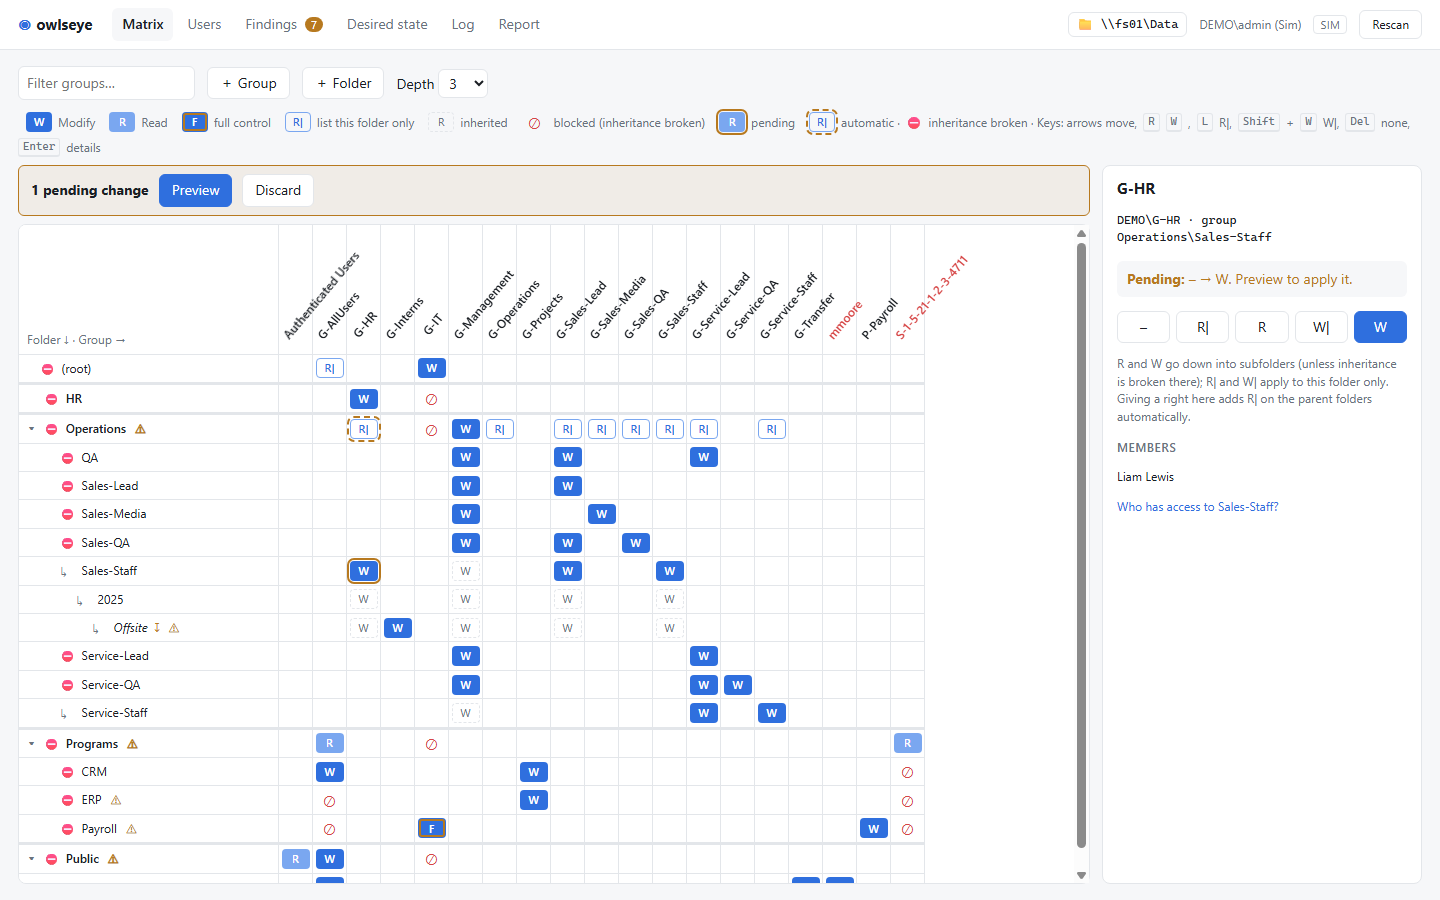
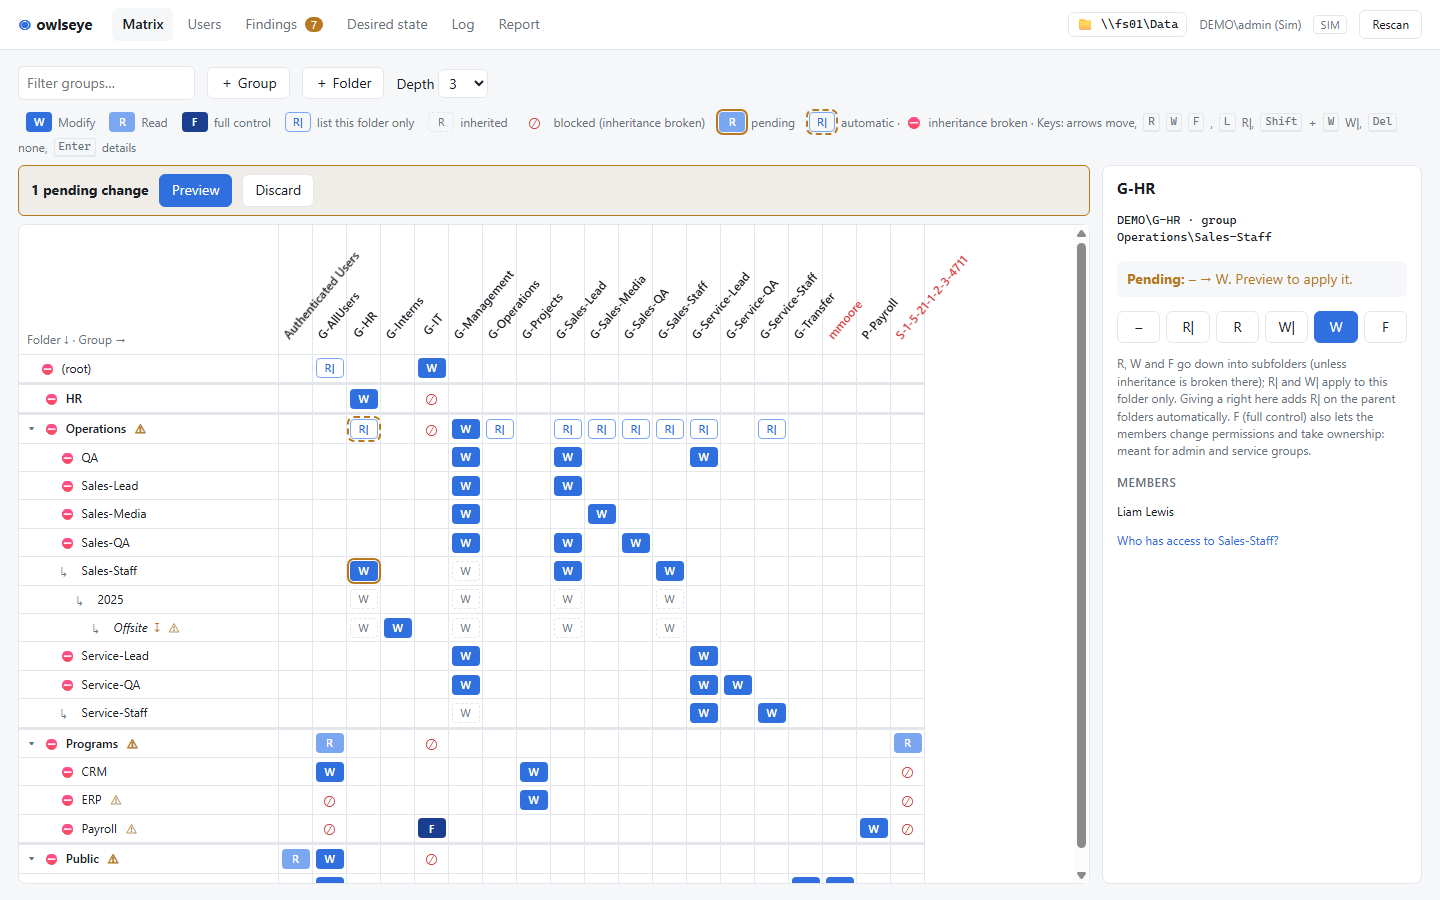
rights: full control (F) can be set
F was shown since the last change but could not be chosen. It is now a fifth cell value: one full
control entry on this folder, subfolders and files (0x1F01FF), ranked above W, inherited like W.

- set it in the cell panel or with the F key; it is not part of the R -> W click cycle
- full control for a visible group is a low finding (members can change permissions); the preview
  says so when F is granted
- F -> W is now a visible change in the preview instead of a hidden loss
- special masks are described as the base right plus what is added, e.g. "Modify + change permissions"
- README, user stories and legends; screenshots regenerated

diff --git a/src/Owlseye.App/wwwroot/app.css b/src/Owlseye.App/wwwroot/app.css
@@ -1,14 +1,14 @@
 /* owlseye — compact, light + dark (style follows birdseye) */
 :root {
   --bg: #f6f7f9; --panel: #fff; --ink: #1b1f24; --muted: #6a737d; --line: #e3e6ea;
-  --accent: #2f6fde; --r: #7aa7f0; --m: #2f6fde; --pending: #b7791f; --warn: #b7791f; --bad: #d64545; --ok: #1f9d55;
+  --accent: #2f6fde; --r: #7aa7f0; --m: #2f6fde; --f: #1b3f8f; --pending: #b7791f; --warn: #b7791f; --bad: #d64545; --ok: #1f9d55;
   --hl: rgba(47, 111, 222, .08);
   --font: ui-sans-serif, system-ui, -apple-system, "Segoe UI", Roboto, sans-serif;
   --mono: ui-monospace, "Cascadia Mono", Consolas, monospace;
 }
 @media (prefers-color-scheme: dark) {
   :root { --bg: #0f1216; --panel: #171b21; --ink: #e6e9ee; --muted: #8b949e; --line: #2a3038;
-          --accent: #5b8ff0; --r: #3d64a8; --m: #5b8ff0; --hl: rgba(91, 143, 240, .12); }
+          --accent: #5b8ff0; --r: #3d64a8; --m: #5b8ff0; --f: #8fb3f7; --hl: rgba(91, 143, 240, .12); }
 }
 * { box-sizing: border-box; }
 html, body { margin: 0; background: var(--bg); color: var(--ink); font: 14px/1.45 var(--font); }
@@ -120,6 +120,7 @@ table.matrix td button.c:focus-visible { outline: 2px solid var(--accent); outli
 .c.empty:hover::after { content: "+"; color: var(--muted); }
 .c.R { background: var(--r); color: #fff; }
 .c.W { background: var(--m); color: #fff; }
+.c.F { background: var(--f); color: #fff; }
 .c.RL, .c.WL { background: none; border: 1px solid var(--r); color: var(--accent); }
 .c.WL { border-color: var(--m); }
 .c.odd { box-shadow: inset 0 0 0 2px var(--warn); }

diff --git a/src/Owlseye.App/wwwroot/matrix.js b/src/Owlseye.App/wwwroot/matrix.js
@@ -4,7 +4,7 @@
 window.owlseye = (function () {
   'use strict';
 
-  const RIGHT_KEYS = { r: 'R', w: 'W', m: 'W', l: 'R|', '|': 'R|', W: 'W|', Delete: '', Backspace: '', '0': '', '-': '' };
+  const RIGHT_KEYS = { r: 'R', w: 'W', m: 'W', f: 'F', l: 'R|', '|': 'R|', W: 'W|', Delete: '', Backspace: '', '0': '', '-': '' };
   let dotnet = null;
   let focusKey = null;
 

diff --git a/src/Owlseye.Core/Ui/Views.cs b/src/Owlseye.Core/Ui/Views.cs
@@ -32,6 +32,7 @@ public static class Labels
         "R" => "R Read",
         "W|" => M.Write == M.Modify ? "W| Modify (this folder only)" : "W| Write, no delete (this folder only)",
         "W" => M.Write == M.Modify ? "W Modify" : "W Write, no delete",
+        "F" => "F Full control",
         _ => v,
     };
 
@@ -41,19 +42,33 @@ public static class Labels
     public static string Describe(IEnumerable<Ace> aces) =>
         string.Join("; ", aces.Select(a => $"{(a.Allow ? "" : "Deny: ")}{RightsName(a.Mask)} ({Scope(a.Flags)})"));
 
-    static string RightsName(uint mask) => mask switch
+    static string RightsName(uint mask)
     {
-        M.Full => "Full control",
-        M.Modify => "Modify",
-        M.WriteNoDelete => "Read, execute and write, no delete",
-        M.Read => "Read and execute",
-        0x120089 => "Read",
-        0x100116 => "Write",
-        0x10000000 => "Full control (generic)",
-        0xE0010000 => "Modify (generic)",
-        0xA0000000 => "Read and execute (generic)",
-        _ => $"special rights 0x{mask:X}",
-    };
+        switch (mask)
+        {
+            case M.Full: return "Full control";
+            case 0x10000000: return "Full control (generic)";
+            case 0xE0010000: return "Modify (generic)";
+            case 0xA0000000: return "Read and execute (generic)";
+            case 0x120089: return "Read";
+            case 0x100116: return "Write";
+        }
+        // the largest standard right it contains, plus what goes beyond it
+        var (name, @base) = (mask & M.Modify) == M.Modify ? ("Modify", M.Modify)
+            : (mask & M.WriteNoDelete) == M.WriteNoDelete ? ("Read, execute and write, no delete", M.WriteNoDelete)
+            : (mask & M.Read) == M.Read ? ("Read and execute", M.Read)
+            : ("", 0u);
+        if (@base == 0) return $"special rights 0x{mask:X}";
+        var extra = mask & ~@base;
+        var parts = new List<string>();
+        if ((extra & M.Delete) != 0) parts.Add("delete");
+        if ((extra & M.DeleteChild) != 0) parts.Add("delete subfolders and files");
+        if ((extra & M.WriteDac) != 0) parts.Add("change permissions");
+        if ((extra & M.WriteOwner) != 0) parts.Add("take ownership");
+        var rest = extra & ~(M.Delete | M.DeleteChild | M.WriteDac | M.WriteOwner);
+        if (rest != 0) parts.Add($"0x{rest:X}");
+        return parts.Count == 0 ? name : $"{name} + {string.Join(", ", parts)}";
+    }
 
     static string Scope(int flags)
     {
@@ -95,7 +110,7 @@ public sealed record CellInfo(string? Value, string Kind, string Tip, string? So
         {
             "pending" => ((v == "" ? "empty" : v) + " pend", Value ?? "–"),
             "auto" => ((v == "" ? "empty" : v) + " auto", Value ?? "–"),
-            "direct" => (v + (Standard ? "" : " odd"), Full ? "F" : Value + (Standard ? "" : "*")),
+            "direct" => (v + (Standard ? "" : " odd"), Value + (Standard ? "" : "*")),
             "inherited" => ("inh", Value ?? ""),
             "blocked" => ("blocked", "⊘"),
             _ => ("empty", ""),

diff --git a/tests/Owlseye.Tests/RightsConfigTests.cs b/tests/Owlseye.Tests/RightsConfigTests.cs
@@ -45,25 +45,44 @@ public sealed class RightsConfigTests : TestBase
     }
 
     [Fact]
-    public void FullControlIsShownAsFAndThePanelSaysWhatIsThere()
+    public void FullControlIsTheValueFAndCanBeSet()
     {
-        var (_, s) = Client(new DemoProvider());
+        var (st, s) = Client(new DemoProvider());
         var panel = s.CellPanel(G("G-IT"), @"Programs\Payroll");
-        Assert.True(panel.Info.Full);
-        Assert.Equal("F", panel.Info.Display().Text);
-        Assert.Equal("Full control (this folder, subfolders and files)", panel.Entry);
-        Assert.Null(s.CellPanel(G("G-HR"), "HR").Entry); // a standard entry needs no explanation
+        Assert.Equal(("F", true), (panel.Info.Value, panel.Info.Standard));
+        Assert.Equal(("F", "F"), panel.Info.Display());
+        Assert.Equal("Entry here: F Full control", panel.Info.Tip);
+        Assert.Null(panel.Entry); // a standard entry needs no explanation
+        Assert.Contains("F", panel.Options);
+        Assert.Contains(st.Findings, f => f.Path == @"Programs\Payroll" && f.Text.StartsWith("Full control for G-IT"));
+        s.SetCell(G("G-HR"), "HR", "F");
+        var change = s.Preview().Plan!.AclOps.Single(o => o.Path == "HR").After.Single(a => a.Sid == G("G-HR"));
+        Assert.Equal((M.Full, M.OiCi), (change.Mask, change.Flags));
     }
 
     [Fact]
-    public void ReplacingFullControlWithWWarnsAboutWhatTheMatrixDoesNotShow()
+    public void FullControlToWIsAVisibleChangeNotAHiddenLoss()
     {
         var (_, s) = Client(new DemoProvider());
         s.SetCell(G("G-IT"), @"Programs\Payroll", "W");
+        var change = s.Preview().Plan!.AclOps.SelectMany(o => o.Changes).Single();
+        Assert.Equal(("F", "W"), (change.Before, change.After)); // the preview shows F -> W
+        Assert.Empty(s.Preview().HiddenLosses!);
+    }
+
+    [Fact]
+    public void ReplacingASpecialEntryWarnsAboutWhatTheMatrixDoesNotShow()
+    {
+        var p = new DemoProvider();
+        var (prot, aces) = p.FolderAcl("HR");
+        p.SetFolderAcl("HR", prot, [.. aces.Select(a => a.Sid == G("G-HR") ? a with { Mask = M.Modify | M.WriteDac } : a)]);
+        var (_, s) = Client(p);
+        var panel = s.CellPanel(G("G-HR"), "HR");
+        Assert.Equal("W*", panel.Info.Display().Text);
+        Assert.Equal("Modify + change permissions (this folder, subfolders and files)", panel.Entry);
+        s.SetCell(G("G-HR"), "HR", "W");
         var loss = Assert.Single(s.Preview().HiddenLosses!);
-        Assert.Equal((@"Programs\Payroll", "DEMO\\G-IT"), (loss.Path, loss.Name));
-        Assert.Equal("delete subfolders and files, change permissions, take ownership", loss.Lost); // Modify keeps delete itself
-        Assert.Equal("Full control (this folder, subfolders and files)", loss.Before);
+        Assert.Equal(("HR", "DEMO\\G-HR", "change permissions"), (loss.Path, loss.Name, loss.Lost));
         Assert.Equal("Modify (this folder, subfolders and files)", loss.After);
     }
 

diff --git a/src/Owlseye.Core/Rights.cs b/src/Owlseye.Core/Rights.cs
@@ -101,7 +101,7 @@ public static class Rights
         ["S-1-5-32-545"] = "BUILTIN\\Users",
     };
 
-    static readonly string[] Reach = ["R|", "R", "W|", "W"]; // every right on a folder requires being able to reach it
+    static readonly string[] Reach = ["R|", "R", "W|", "W", "F"]; // every right on a folder requires being able to reach it
 
     /// <summary>Explicit Allow ACEs of an account on a folder -> (cell value, exactly the standard entry?).</summary>
     public static (string? Value, bool Standard) Classify(IReadOnlyList<Ace> aces)
@@ -110,7 +110,7 @@ public static class Rights
         var inheritable = aces.Where(a => (a.Flags & M.OiCi) != 0).ToList();
         IReadOnlyList<Ace> pool = inheritable.Count > 0 ? inheritable : aces;
         var write = pool.Any(a => (a.Mask & WriteBits) != 0);
-        var value = inheritable.Count > 0 ? (write ? "W" : "R") : (write ? "W|" : "R|");
+        var value = IsFullControl(aces) ? "F" : inheritable.Count > 0 ? (write ? "W" : "R") : (write ? "W|" : "R|");
         var a0 = aces[0];
         var std = M.Standard[value];
         return (value, aces.Count == 1 && a0.Mask == std.Mask && (a0.Flags & ~0x10) == std.Flags);
@@ -183,7 +183,7 @@ public static class Rights
             foreach (var (sid, e) in mine)
             {
                 var have = passing.TryGetValue(sid, out var p) ? p.V : null;
-                if (e.Value is "R" or "W" && M.Rank(e.Value) > M.Rank(have)) passing[sid] = (e.Value, f.Path);
+                if (e.Value is "R" or "W" or "F" && M.Rank(e.Value) > M.Rank(have)) passing[sid] = (e.Value, f.Path);
             }
             passes[f.Path] = passing;
             foreach (var sid in incoming.Keys.Union(mine.Keys))
@@ -399,6 +399,8 @@ public static class Rights
         foreach (var ((sid, path), c) in cells)
             if (c.Direct is not null && !c.Standard && snap.Folders[path].Level <= maxLevel)
                 o.Add(new("low", path, $"Non-standard entry for {ShortOf(snap, sid)} (shown as {c.Direct})"));
+            else if (c.Direct == "F" && snap.Folders[path].Level <= maxLevel)
+                o.Add(new("low", path, $"Full control for {ShortOf(snap, sid)}: its members can change permissions and take ownership"));
         foreach (var ((sid, anc), below) in Unreachable(snap, cells, maxLevel))
             o.Add(new("medium", anc, $"{ShortOf(snap, sid)} cannot open this folder to reach {below[0]} (R| missing)"));
         return o.OrderBy(x => SevRank[x.Severity]).ThenBy(x => M.Lower(x.Path), M.Ci).ThenBy(x => x.Text, M.Ci).ToList();

diff --git a/src/Owlseye.Core/Reports/RightsReport.cs b/src/Owlseye.Core/Reports/RightsReport.cs
@@ -10,7 +10,7 @@ namespace Owlseye.Reports;
 
 /// <param name="Value">effective right (own entry or inherited), null = none</param>
 /// <param name="Own">entry on this folder (not inherited)</param>
-/// <param name="Standard">own entry is one of the four standard entries</param>
+/// <param name="Standard">own entry is one of the standard entries</param>
 public sealed record ReportCell(string? Value, bool Own, bool Standard, bool Full = false)
 {
     /// <summary>"W", "(W)" for inherited, "F" for own full control, "W*" for another non-standard own entry, "" for none.</summary>
@@ -195,7 +195,7 @@ public static class ReportBuilder
             new[] { "Findings", string.Join(", ", r.Findings.GroupBy(f => f.Severity).Select(g => $"{g.Count()} {g.Key}")) is { Length: > 0 } fs ? fs : "none" },
             new[] { "State", r.PendingCount > 0 ? $"as scanned; {r.PendingCount} pending change(s) in owlseye are not included" : "as scanned" },
             new[] { "", "" },
-            new[] { "Matrix legend", "W write, R read (this folder and below); W| R| this folder only; (W) inherited; F full control; * other special entry (not one of the four standard entries)" },
+            new[] { "Matrix legend", "W write, R read (this folder and below); W| R| this folder only; (W) inherited; F full control; * other special entry (not one of the standard entries)" },
             new[] { "Access", "one row per user and folder with the strongest right and the accounts it comes through" },
         };
         var matrixHeader = new List<string> { "Folder", "Inheritance" };

diff --git a/tests/Owlseye.Tests/AclModelTests.cs b/tests/Owlseye.Tests/AclModelTests.cs
@@ -19,7 +19,7 @@ public class AclModelTests : TestBase
     [InlineData(M.Modify, M.OiCi, "W", true)] // W is Modify by default ("write": "modify")
     [InlineData(M.Read, 0, "R|", true)]
     [InlineData(M.Modify, 0, "W|", true)]
-    [InlineData(M.Full, M.OiCi, "W", false)] // full control: special entry, shown as F
+    [InlineData(M.Full, M.OiCi, "F", true)] // full control
     [InlineData(M.WriteNoDelete, M.OiCi, "W", false)] // write without delete: special unless "write": "no-delete"
     [InlineData(0x100021u, 0, "R|", false)] // list/traverse only
     public void Classify(uint mask, int flags, string value, bool standard)
@@ -133,7 +133,7 @@ public class AclModelTests : TestBase
         Assert.Contains(("high", "Public", "Broad permission for Authenticated Users"), texts);
         Assert.Contains(("high", @"Public\Transfer", "Direct user entry for DEMO\\mmoore"), texts);
         Assert.Contains(("medium", @"Programs\ERP", "Administrators without full control here"), texts);
-        Assert.Contains(("low", @"Programs\Payroll", "Non-standard entry for G-IT (shown as W)"), texts);
+        Assert.Contains(("low", @"Programs\Payroll", "Full control for G-IT: its members can change permissions and take ownership"), texts);
         Assert.Contains(("medium", OPS, $@"G-Service-QA cannot open this folder to reach {OPS}\Service-QA (R| missing)"), texts);
         Assert.Contains(texts, t => t.Text.StartsWith("Explicit entry below level 3", StringComparison.Ordinal));
     }

diff --git a/tests/Owlseye.Tests/AclAppTests.cs b/tests/Owlseye.Tests/AclAppTests.cs
@@ -193,8 +193,8 @@ public sealed class AclAppTests : TestBase
         var page = s.CellPanel(G("G-HR"), "HR");
         Assert.Equal("direct", page.Info.Kind); // "Entry here"
         Assert.StartsWith("Entry here", page.Info.Tip);
-        Assert.Equal([null, "R|", "R", "W|", "W"], page.Options);
-        string[] labels = ["No access", "R| List", "R Read", "W| Modify", "W Modify"];
+        Assert.Equal([null, "R|", "R", "W|", "W", "F"], page.Options);
+        string[] labels = ["No access", "R| List", "R Read", "W| Modify", "W Modify", "F Full control"];
         foreach (var (label, option) in labels.Zip(page.Options))
             Assert.StartsWith(label, Labels.Label(option)); // title="{label}…" on each choice
     }
@@ -242,8 +242,8 @@ public sealed class AclAppTests : TestBase
     {
         var (_, s) = Client(new DemoProvider());
         var hit = CellAt(s.Matrix(), G("G-IT"), @"Programs\Payroll"); // full control
-        Assert.Equal(("W odd", "F"), hit.Display());
-        Assert.Equal("Entry here: Full control", hit.Tip);
+        Assert.Equal(("F", "F"), hit.Display());
+        Assert.Equal("Entry here: F Full control", hit.Tip);
     }
 
     [Fact]

diff --git a/src/Owlseye.Core/Model.cs b/src/Owlseye.Core/Model.cs
@@ -15,7 +15,7 @@ namespace Owlseye;
 
 public static class M
 {
-    public static readonly string[] Cells = ["R|", "R", "W|", "W"];
+    public static readonly string[] Cells = ["R|", "R", "W|", "W", "F"];
 
     public static double Rank(string? v) => v switch
     {
@@ -24,6 +24,7 @@ public static class M
         "W|" => 0.75,
         "R" => 1,
         "W" => 2,
+        "F" => 3,
         _ => throw new ArgumentException($"Unknown right {v}"),
     };
 
@@ -47,6 +48,7 @@ public static class M
         ["R"] = (Read, OiCi),
         ["W|"] = (write, ThisFolder),
         ["W"] = (write, OiCi),
+        ["F"] = (Full, OiCi), // full control: also change permissions and take ownership
     };
 
     public const string System = "S-1-5-18", Admins = "S-1-5-32-544", CreatorOwner = "S-1-3-0", OwnerRights = "S-1-3-4";

diff --git a/src/Owlseye.Core/Ui/Session.cs b/src/Owlseye.Core/Ui/Session.cs
@@ -29,7 +29,7 @@ public sealed class Session(State st)
         }
         if (c is { Direct: not null } && c.Source == path)
         {
-            var tip = c.Full ? "Entry here: Full control" : $"Entry here: {Labels.Label(c.Direct)}" + (c.Standard ? "" : " (non-standard entry)");
+            var tip = $"Entry here: {Labels.Label(c.Direct)}" + (c.Standard ? "" : " (non-standard entry)");
             return new CellInfo(c.Direct, "direct", tip, path, c.Standard, Full: c.Full);
         }
         if (c is { Effective: not null })

diff --git a/README.md b/README.md
@@ -24,8 +24,9 @@ User → security group (e.g. universal) → folder ACL. A group may appear on a
 | `W` | Modify (`0x1301BF`: read, execute, write and delete), this folder + subfolders + files; with `"write": "no-delete"` in config.json read + write without delete (`0x1201BF`) | `W` |
 | `R\|` | Read this folder only (list, to reach subfolders) | `R\|` |
 | `W\|` | The same as `W`, this folder only | `W\|` |
+| `F` | Full control (`0x1F01FF`), this folder + subfolders + files: also change permissions and take ownership; for admin and service groups (a finding marks it) | |
 
-The masks live in one place (`src/Owlseye.Core/Model.cs`: `M.Read`, `M.Write`, `M.Standard`). Full control shows as `F`; other entries (write without delete while W means Modify, several entries of one group, special rights) show as `*` (special entry), and the cell panel says in Windows terms what is there. A click replaces a special entry with the standard entry; if that removes rights the matrix does not show (delete, change permissions, take ownership), the preview lists them before anything is written.
+The masks live in one place (`src/Owlseye.Core/Model.cs`: `M.Read`, `M.Write`, `M.Standard`). Other entries (write without delete while W means Modify, several entries of one group, special rights) show as `*` (special entry), and the cell panel says in Windows terms what is there, e.g. "Modify + change permissions". A click replaces a special entry with the standard entry; if that removes rights the matrix does not show (delete, change permissions, take ownership), the preview lists them before anything is written.
 
 - **R| automatic:** When a group gets a right on a folder, owlseye sets `R|` on every parent folder up to the root that the group cannot otherwise enter. "Enter" means: an own (or inherited) entry there, or every member already gets in via another group (typically `G-AllUsers` with `R|` on the root). When the last right below goes away, this `R|` goes too. An `R|` set by hand stays. Missing `R|` is a finding.
 - **Inheritance** (`[-]` in the Excel list, `⛔` in the matrix): `R`/`W` pass into subfolders until one is protected; `R|`/`W|` do not. Toggle on any folder except the root. Breaking copies all inherited entries as own entries (nobody loses access), then you remove selectively. Restoring removes explicit copies of what the parent folder inherits. **Clear** resets a folder to the default like a new one: inheritance on, no own entries (deny and special entries go too), the automatically set `R|` above disappears with it.
@@ -168,7 +169,7 @@ tag (`git push origin :v1.0.0`), fix, tag again.
 
 Rows are the folders (tree, top level collapsible), columns the groups. Clicking a cell or a folder opens a
 panel on the right: where a right comes from, group members, set right, toggle inheritance, create subfolder.
-Keyboard: arrows move, `R`, `W`, `L` or `|` for `R|`, `Shift`+`W` for `W|`, `Del` for no entry. Inherited rights
+Keyboard: arrows move, `R`, `W`, `F`, `L` or `|` for `R|`, `Shift`+`W` for `W|`, `Del` for no entry. Inherited rights
 can only be raised; to restrict, use "Break inheritance".
 
 | Mark | Meaning |
@@ -176,7 +177,7 @@ can only be raised; to restrict, use "Break inheritance".
 | `W` / `R` filled | entry on this folder |
 | `R\|` / `W\|` outlined | entry for this folder only |
 | dashed | inherited (panel shows from which folder) |
-| `F` | full control |
+| `F` | full control (darker) |
 | `*` | other special entry (other mask or flags; the panel says what it is) |
 | `⊘` | blocked: right on the parent folder does not arrive because inheritance is broken |
 | orange outline | pending change; dashed orange: automatic `R\|` |

diff --git a/docs/user-stories.md b/docs/user-stories.md
@@ -23,7 +23,7 @@ own account: no service account, no stored password.
 - Rows are the folders as a tree (root, levels down to the chosen depth); columns are the accounts in the ACLs, without
   SYSTEM, Administrators and Creator Owner (F-M1, F-M3).
 - A cell shows `R`, `W`, `R|`, `W|` (own entry), a dashed value (inherited), `⊘` (blocked by broken inheritance) or
-  `*` (an entry that is not one of the four standard entries) (F-M5).
+  `*` (an entry that is not one of the standard entries), `F` for full control (F-M5).
 - Top-level folders can be collapsed, columns filtered by name (F-M4, F-M6).
 - The depth (1–10) is remembered per admin; deeper folders appear only where they have something of their own (F-M2).
 - A share with 2,000 folders and 60 groups stays responsive: a change shows in about 100 ms (N-2).
